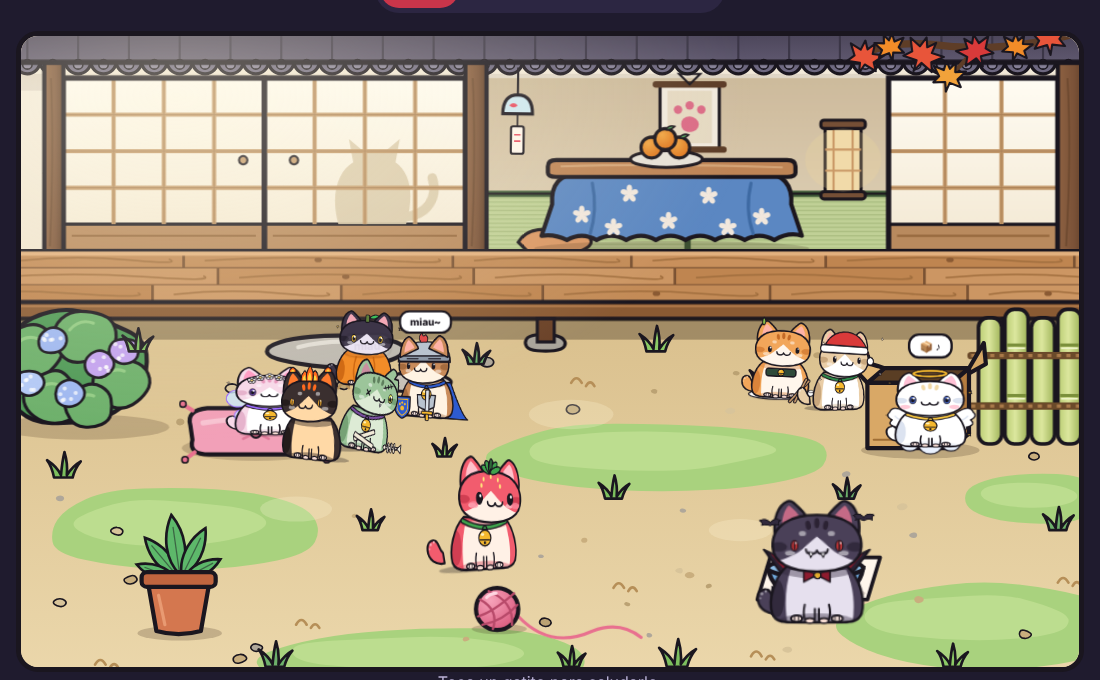
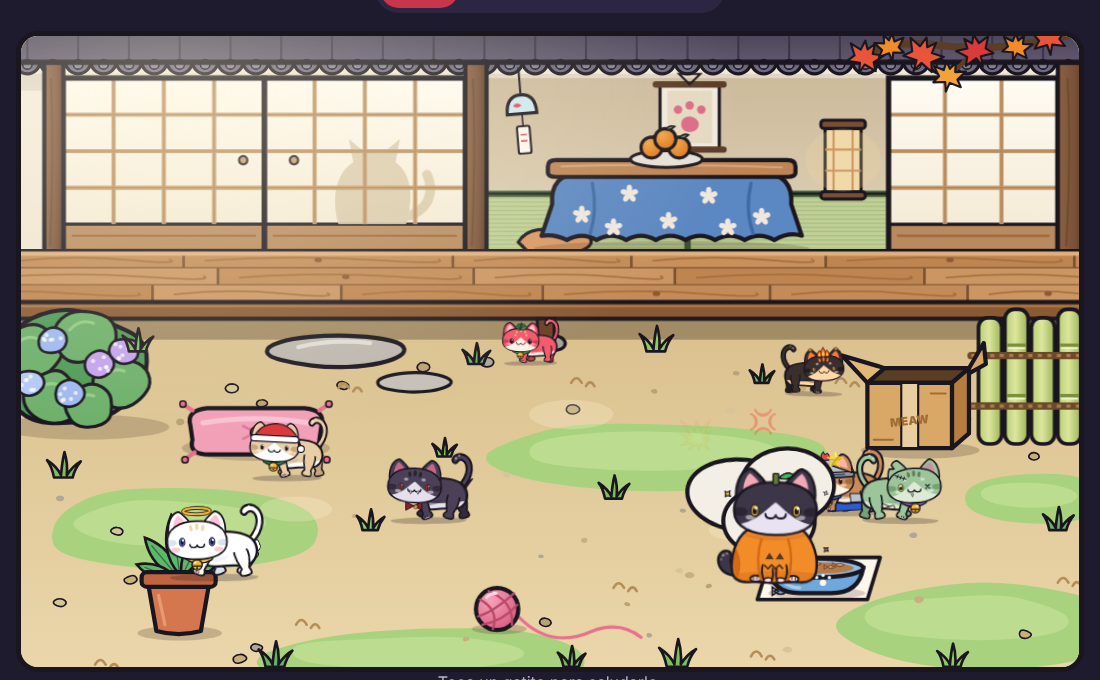
Add walking 4-legged pose for patio cats and organic sitting base
Base v3 from the art-director: v2 head on a side-view body with separate
legs and tail; CSS walk cycle (diagonal trot, body bob, head nod, tail
sway) whose speed follows the cat. Cats sit in the v2 pose when they stop.
Sitting body, tail, paws and shadows redrawn with organic curves.

Claude-Session: https://claude.ai/code/session_01DiuTr3FmZvpZGRHY7Z9UJZ

diff --git a/cats.js b/cats.js
@@ -13,8 +13,8 @@ const sh = (y, s) => y && s ? `<g transform="translate(0 ${y})">${s}</g>` : ''; 
 const EAR_L = 'M46 66 C44 40 52 14 70 6 Q76 3 82 8 C96 20 106 30 110 40 Z', EAR_L_IN = 'M60 52 C60 36 66 20 74 14 C84 22 92 30 96 38 Z';
 const HEAD = 'M42 94 C40 52 78 32 128 32 C178 32 216 52 214 94 C213 126 178 142 128 142 C78 142 43 126 42 94 Z';
 const MUZZLE = 'M40 124 C60 120 84 112 100 98 C112 88 120 80 128 74 C136 80 144 88 156 98 C172 112 196 120 216 124 L216 148 L40 148 Z';
-const BODY = 'M70 132 C42 156 32 200 40 226 C46 240 60 242 76 242 L180 242 C196 242 210 240 216 226 C224 200 214 156 186 132 Z';
-const TAIL = 'M52 228 C30 232 10 220 8 200 C6 184 18 176 28 180 C38 184 36 198 48 206 Z';
+const BODY = 'M70 132 C44 150 33 194 39 223 C42 237 57 244 80 242 C104 240 116 245 130 244 C150 243 164 239 182 242 C200 243 213 235 216 220 C221 192 213 156 186 131 C150 138 104 138 70 132 Z';
+const TAIL = 'M54 230 C34 236 12 226 7 206 C3 190 12 178 24 178 C34 179 38 188 34 196 C31 203 38 210 50 212 C56 216 58 224 54 230 Z';
 const EYES = [85, 171], EY = 92;
 
 function buildCat(c, uid = "") { // uid: unique suffix so the same cat can appear twice in one page (clipPath ids)
@@ -35,20 +35,20 @@ function buildCat(c, uid = "") { // uid: unique suffix so the same cat can appea
   })[kind] || `<ellipse cx="${x}" cy="${EY}" rx="6" ry="9.5" fill="${p.eye}"/><circle cx="${x + 2}" cy="${EY - 5}" r="2.4" fill="#fff"/>`;
   const A = k => sh((c.shift || {})[k], a[k]) || a[k] || '';
   return {
-    ground: `<ellipse cx="128" cy="243" rx="84" ry="9" fill="${O}" opacity=".3"/>` + A('ground'),
-    back: `<path d="${TAIL}" ${st(p.fur, 5)}/><g fill="${light}"><circle cx="16" cy="188" r="3"/><circle cx="24" cy="183" r="2.5"/><circle cx="13" cy="197" r="2"/></g>` + A('back'),
+    ground: `<path d="M48 240 C70 234 186 233 210 239 C214 246 180 250 128 250 C78 250 44 247 48 240 Z" fill="${O}" opacity=".3"/>` + A('ground'),
+    back: `<path d="${TAIL}" ${st(p.fur, 5)}/><g fill="${light}"><circle cx="17" cy="188" r="3"/><circle cx="25" cy="184" r="2.5"/><circle cx="13" cy="197" r="2"/></g>` + A('back'),
     body: `<defs><clipPath id="${id}-bc"><path d="${BODY}"/></clipPath></defs>
       <path d="${BODY}" fill="${bodyFill}"/>
       <g clip-path="url(#${id}-bc)">
         ${c.bodyFill ? '' : `<path d="M76 140 C66 172 64 210 70 244 L198 244 C204 210 200 172 186 140 Z" fill="${p.belly}"/>`}
-        <ellipse cx="50" cy="196" rx="14" ry="36" fill="${bodyShade}"/>
-        <g fill="${bodyShade}" opacity=".4"><ellipse cx="128" cy="140" rx="76" ry="17"/><ellipse cx="128" cy="252" rx="94" ry="27"/></g>
+        <path d="M44 170 C56 184 60 214 50 234 C40 222 38 190 44 170 Z" fill="${bodyShade}"/>
+        <g fill="${bodyShade}" opacity=".4"><path d="M54 136 C90 152 170 154 204 134 C196 160 70 162 54 136 Z"/><path d="M40 226 C90 218 170 216 218 224 L218 246 L40 246 Z"/></g>
       </g>
       <path d="${BODY}" fill="none" stroke="${O}" stroke-width="5" stroke-linejoin="round"/>
-      <g ${st('#F7E3DC')}><ellipse cx="88" cy="235" rx="11" ry="6"/><ellipse cx="168" cy="235" rx="11" ry="6"/></g>
-      <path d="M84 232v5M92 232v5M164 232v5M172 232v5" stroke="${O}" stroke-width="2" stroke-linecap="round"/>
-      <path d="M104 208 Q100 224 104 236M124 216V238M132 216V238M152 208 Q156 224 152 236" stroke="${O}" stroke-width="4" fill="none" stroke-linecap="round"/>
-      <g ${st('#F6DCD3', 3)}><ellipse cx="114" cy="239" rx="9" ry="5"/><ellipse cx="142" cy="239" rx="9" ry="5"/></g>` +
+      <g ${st('#F7E3DC')}><path d="M77 236 C77 229 86 227 94 229 C100 231 101 238 96 240 C89 242 79 242 77 236 Z"/><path d="M179 236 C179 229 170 227 162 229 C156 231 155 238 160 240 C167 242 177 242 179 236 Z"/></g>
+      <path d="M84 232 q1 3 0 5 M91 231 q1 3 0 5 M165 231 q-1 3 0 5 M172 232 q-1 3 0 5" stroke="${O}" stroke-width="2" fill="none" stroke-linecap="round"/>
+      <path d="M103 206 Q99 222 105 236 M124 214 Q126 226 123 238 M132 214 Q130 226 133 238 M153 206 Q157 222 151 236" stroke="${O}" stroke-width="4" fill="none" stroke-linecap="round"/>
+      <g ${st('#F6DCD3', 3)}><path d="M105 239 C105 234 112 232 118 233 C123 234 124 240 120 242 C115 244 106 243 105 239 Z"/><path d="M151 239 C151 234 144 232 138 233 C133 234 132 240 136 242 C141 244 150 243 151 239 Z"/></g>` +
       A('body') +
       (c.collar === false ? '' : `<path d="M68 140 Q128 166 188 140" stroke="${O}" stroke-width="12" fill="none" stroke-linecap="round"/><path d="M68 140 Q128 166 188 140" stroke="${p.accent}" stroke-width="6" fill="none" stroke-linecap="round"/>
         <circle cx="128" cy="157" r="6" fill="none" stroke="${O}" stroke-width="3"/>${bell(128, 176, 17)}`) +
@@ -360,4 +360,42 @@ const CATS = [
     } },
 ];
 
-if (typeof module !== 'undefined') module.exports = { CATS, buildCat };
+const LEG_F = 'M-10 -4 C-12 10 -10 24 -9 33 C-15 36 -17 44 -11 46 C-4 48 7 48 10 45 C12 41 10 36 8 33 C10 22 12 8 10 -4';
+const LEG_B = 'M-14 -6 C-16 10 -10 22 -8 32 C-14 36 -16 44 -10 46 C-3 48 8 48 10 45 C12 41 10 36 8 32 C12 22 18 8 14 -6';
+const TORSO = 'M112 158 C126 146 150 142 172 144 C196 146 214 152 222 168 C230 184 224 204 210 212 C196 218 178 214 162 216 C146 218 130 220 118 214 C104 206 100 176 112 158 Z';
+const WTAIL = 'M218 164 C238 140 240 108 222 92 C210 82 192 86 188 98 C185 107 196 112 200 104 C206 96 216 100 220 110 C226 126 218 146 204 162 Z';
+const TORSO_ITEMS = new Set(['gato-sushi', 'gato-zombi', 'gato-astronauta', 'gato-dragon', 'gato-bombero', 'gato-detective', 'gato-calabaza', 'gato-robot', 'gato-rayo', 'gato-caballero']);
+// Walking pose (side view, facing left): v2 head on top of an animated 4-legged body. Held items and ground props are hidden.
+function buildWalk(c, uid = '') {
+  const L = buildCat(c, uid), id = c.id + uid, p = c.colors, a = c.acc || {}, light = mix(p.fur, '#FFFFFF', .5);
+  const A = k => sh((c.shift || {})[k], a[k]) || a[k] || '';
+  const near = c.bodyFill || p.fur, far = c.bodyShade || p.shade;
+  const leg = (cls, x, y, d, fill, front) => `<g transform="translate(${x} ${y})"><g class="w-leg ${cls}"><path d="${d}Z" fill="${fill}"/><path d="${d}" fill="none" stroke="${O}" stroke-width="4" stroke-linecap="round" stroke-linejoin="round"/>` +
+    (front ? `<path d="M-7 41 l1 4 M-2 41 l1 5" stroke="${O}" stroke-width="2.5" stroke-linecap="round"/><path d="M-9 46 c3 -2 9 -2 12 0" stroke="#F6DCD3" stroke-width="2" fill="none"/>` : '') + '</g></g>';
+  const torsoItems = TORSO_ITEMS.has(c.id);
+  return `<defs><clipPath id="${id}-tc"><path d="${TORSO}"/></clipPath></defs>
+    <g transform="translate(128 240)"><g class="w-shadow"><path transform="translate(-128 -240)" d="M40 240 C70 232 190 230 228 238 C233 245 196 249 128 249 C70 249 35 247 40 240 Z" fill="${O}" opacity=".25"/></g></g>
+    ${leg('w-fb', 208, 189, LEG_B, far)}${leg('w-ff', 134, 189, LEG_F, far)}
+    <g class="w-body">
+      <g transform="translate(92 84) scale(.62)">${A('back')}</g>
+      <g transform="translate(210 162)"><g class="w-tail"><g transform="translate(-210 -162)"><path d="${WTAIL}" ${st(p.fur, 5)}/>
+        <g fill="${light}"><path d="M193 95 c3 -2 6 0 5 3 c-1 3 -6 2 -5 -3z"/><path d="M201 89 c2 -2 5 -1 4 2 c-1 2 -4 2 -4 -2z"/></g></g></g></g>
+      <path d="${TORSO}" fill="${near}"/>
+      <g clip-path="url(#${id}-tc)">
+        ${c.bodyFill ? '' : `<path d="M100 194 C126 204 168 206 232 196 L232 232 L100 232 Z" fill="${p.belly}"/>`}
+        <path d="M196 148 C222 156 234 184 216 212 C228 186 220 162 196 148 Z" fill="${far}"/>
+        <path d="M108 186 C124 196 146 200 164 194 C162 206 132 212 110 204 Z" fill="${far}" opacity=".4"/>
+        ${torsoItems ? `<g transform="translate(92 84) scale(.62)">${A('body')}${A('bodyTop')}</g>` : ''}
+      </g>
+      <path d="${TORSO}" fill="none" stroke="${O}" stroke-width="5" stroke-linejoin="round"/>
+    </g>
+    ${leg('w-nb', 192, 191, LEG_B, near)}${leg('w-nf', 118, 191, LEG_F, near, true)}
+    <g class="w-body">
+      ${c.collar === false ? '' : `<path d="M76 198 Q100 214 126 200" stroke="${O}" stroke-width="12" fill="none" stroke-linecap="round"/><path d="M76 198 Q100 214 126 200" stroke="${p.accent}" stroke-width="6" fill="none" stroke-linecap="round"/>`}
+      ${torsoItems ? '' : `<g transform="translate(4 98) scale(.74)">${A('body')}${A('bodyTop')}</g>`}
+      <g transform="translate(98 200)"><g class="w-head"><g transform="translate(-94 -102) scale(.74)">${L.head}${L.face}</g></g></g>
+      ${c.collar === false ? '' : bell(98, 214, 11)}
+    </g>`;
+}
+
+if (typeof module !== 'undefined') module.exports = { CATS, buildCat, buildWalk };

diff --git a/index.html b/index.html
@@ -135,8 +135,25 @@
   .pet .cat { width: 100%; margin: 0; }
   .pet .tilt { transition: transform .35s ease-out; }
   .pet-body { transform-origin: 50% 95%; }
-  .pet.walk .pet-body { animation: hop .32s ease-in-out infinite alternate; }
-  @keyframes hop { from { translate: 0 0; rotate: -3deg; } to { translate: 0 -7%; rotate: 3deg; } }
+  /* walking pose (Base v3): legs, body bob, head nod, tail sway */
+  .walkpose { position: absolute; left: 0; top: 0; width: 100%; height: auto; aspect-ratio: 1; overflow: visible; display: none; }
+  .pet.walk .walkpose { display: block; }
+  .pet.walk .pet-body { visibility: hidden; }
+  .pet.walk .w-leg { animation: w-leg var(--stride, .8s) ease-in-out infinite; }
+  .pet.walk .w-ff, .pet.walk .w-nb { animation-delay: calc(var(--stride, .8s) / -2); }
+  .pet.walk .w-nb, .pet.walk .w-fb { animation-name: w-leg-back; }
+  @keyframes w-leg { 0%, 100% { transform: rotate(22deg); } 50% { transform: rotate(-22deg); } 75% { transform: translateY(-5px) rotate(0deg); } }
+  @keyframes w-leg-back { 0%, 100% { transform: rotate(16deg); } 50% { transform: rotate(-18deg); } 75% { transform: translateY(-4px) rotate(0deg); } }
+  .pet.walk .w-body { animation: w-bob calc(var(--stride, .8s) / 2) ease-in-out infinite alternate; }
+  @keyframes w-bob { to { transform: translateY(-3px); } }
+  .pet.walk .w-head { animation: w-nod var(--stride, .8s) ease-in-out -.1s infinite; }
+  @keyframes w-nod { 0%, 100% { transform: rotate(-3deg); } 50% { transform: rotate(3deg) translateY(-2px); } }
+  .pet.walk .w-tail { animation: w-tail 1.6s ease-in-out infinite alternate; }
+  @keyframes w-tail { from { transform: rotate(-6deg); } to { transform: rotate(8deg); } }
+  .pet.walk .w-shadow { animation: w-shadow calc(var(--stride, .8s) / 2) ease-in-out infinite alternate; }
+  @keyframes w-shadow { to { transform: scaleX(.95); } }
+  .pet .pet-body { animation: settle .3s ease-out; }
+  @keyframes settle { from { scale: 1 .9; } }
   .pet.g-loaf .pet-body { scale: 1.08 .86; transition: scale .4s; }
   .pet.g-sleep .pet-body { scale: 1.1 .8; transition: scale .6s; }
   .pet.g-stretch .pet-body { animation: stretch 1.4s ease-in-out; }
@@ -389,8 +406,8 @@ function syncGarden() {
   const box = $('pets'), have = new Set(G.pets.map(p => p.c.id));
   for (const c of CATS) if (col[c.id] && !have.has(c.id)) {
     const el = document.createElement('div'); el.className = 'pet';
-    el.innerHTML = `<div class="pet-body">${catHTML(c)}</div>`;
-    const p = { c, el, x: rand(.1, .9), y: rand(Y0, Y1), dir: 1, cool: 3000 };
+    el.innerHTML = `<div class="pet-body">${catHTML(c)}</div><svg class="walkpose" viewBox="0 0 256 256" aria-hidden="true">${buildWalk(c, '-w' + uid++)}</svg>`;
+    const p = { c, el, wp: el.querySelector('.walkpose'), x: rand(.1, .9), y: rand(Y0, Y1), dir: 1, cool: 3000 };
     el.onclick = () => { if (p.state !== 'interact') { setState(p, 'gesture', 1200, 'g-jump'); say(p, '¡Miau! ❤'); } };
     box.append(el); G.pets.push(p); setState(p, 'idle', rand(300, 2500));
   }
@@ -445,7 +462,9 @@ function tick(now) {
         }
       }
       // pseudo-3D: walking cats turn toward where they go; resting cats face the player
-      p.el.querySelector('.tilt').style.setProperty('--ry', `${p.state === 'walk' || p.state === 'interact' ? p.dir * 32 : 0}deg`);
+      p.el.querySelector('.tilt').style.setProperty('--ry', `${p.state === 'interact' ? p.dir * 32 : 0}deg`);
+      p.wp.style.transform = p.dir > 0 ? 'scaleX(-1)' : ''; // walking art faces left
+      p.el.style.setProperty('--stride', `${Math.min(1.1, Math.max(.22, .056 / (p.speed || .07)))}s`);
       p.el.style.setProperty('--dir', p.dir);
       const s = .6 + .55 * (p.y - Y0) / (Y1 - Y0), size = W * .11;
       p.el.style.width = size + 'px';

diff --git a/docs/art/cat-designs.md b/docs/art/cat-designs.md
@@ -531,3 +531,97 @@ Idle: `float`; colas laterales `wing-l` (y espejo); fuegos `bob` + `twinkle`; ma
 | 30 | `gato-kitsune` | Gato Kitsune | Legendario |
 
 **Nomenclatura de assets**: `char_<id>_<variante>_<tamaño>.svg`, p. ej. `char_gato-dragon_idle_256.svg`.
+
+---
+
+## Base v3 — gato caminando (pose móvil)
+
+Pose a 4 patas, cuerpo de perfil ¾ **hacia la izquierda**, cabeza v2 de frente delante-izquierda, cola en S levantada atrás (ref. chibi siamés). Suelo (apoyo de las patitas) en **y = 238**. Para ir a la derecha: envolver todo en `transform="translate(256 0) scale(-1 1)"` (la cara v2 es simétrica, sirve igual).
+**Trazo orgánico**: nada de círculos/elipses/rects en partes del cuerpo; béziers asimétricas, patas que se estrechan, tripa que cuelga. Contorno `#1A161F` stroke 5 (patas 4), `round` en joins y caps.
+
+### 1. Cabeza (v2 tal cual)
+Las capas `head` + `face` de v2 (y con ellas `head`, `headTop`, `face`, `faceTop` de los 30 gatos) se dibujan sin cambios dentro de un grupo de pivote:
+```svg
+<g transform="translate(98 200)">            <!-- pivote = barbilla -->
+  <g class="w-head">                         <!-- CSS: cabeceo -->
+    <g transform="translate(-94 -102) scale(.74)"> …capas v2 head + face… </g>
+  </g>
+</g>
+```
+Equivale a `translate(4 98) scale(.74)`: la cabeza ocupa x35–162, y101 (puntas de oreja)–203 (barbilla); ojos en (67,166)/(131,166); boca y≈171–180.
+
+### 2. Cuerpo, patas, cola, sombra (pose base, sin animar)
+**Patrón de pivote** (todas las piezas que giran): `<g transform="translate(px py)"><g class="w-…">forma en coords locales, pivote = (0,0)</g></g>`. En SVG, la `transform` de CSS gira alrededor del origen local (0,0) = el pivote; no pongas `transform-origin` ni `transform-box`.
+
+| Pieza | Capa / orden | Forma (viewBox 256) |
+|---|---|---|
+| Sombra suelo | `ground` (1) | `M40,240 C70,232 190,230 228,238 C233,245 196,249 128,249 C70,249 35,247 40,240 Z` `#1A161F` op .25 (sin contorno) |
+| Cola | `back` (2), pivote `(210,162)` | `M218,164 C238,140 240,108 222,92 C210,82 192,86 188,98 C185,107 196,112 200,104 C206,96 216,100 220,110 C226,126 218,146 204,162 Z` en `<g transform="translate(210 162)"><g class="w-tail"><path transform="translate(-210 -162)" d="…"/></g></g>`; fill `fur`; manchas claras (óvalos irregulares) `M193,95 c3,-2 6,0 5,3 c-1,3 -6,2 -5,-3z` y `M201,89 c2,-2 5,-1 4,2 c-1,2 -4,2 -4,-2z` |
+| Pata trasera lejana | `body` (3), pivote `(208,189)` | forma **trasera** (abajo), fill `shade` |
+| Pata delantera lejana | `body` (4), pivote `(134,189)` | forma **delantera**, fill `shade` |
+| Torso | `body` (5) | `M112,158 C126,146 150,142 172,144 C196,146 214,152 222,168 C230,184 224,204 210,212 C196,218 178,214 162,216 C146,218 130,220 118,214 C104,206 100,176 112,158 Z` fill `fur` (= clip `tc`); tripa colgando entre x130–160 |
+| Tripa/babero | `body` (clip `tc`) | `M100,194 C126,204 168,206 232,196 L232,232 L100,232 Z` fill `belly` (frontera ondulada, no recta) |
+| Sombra lomo | `body` (clip `tc`) | `M196,148 C222,156 234,184 216,212 C228,186 220,162 196,148 Z` fill `shade` (anca derecha) |
+| Sombra bajo cabeza | `body` (clip `tc`) | `M108,186 C124,196 146,200 164,194 C162,206 132,212 110,204 Z` fill `shade` op .4 |
+| Contorno torso | `body` (6) | mismo `d` del torso, stroke 5, sin relleno |
+| Pata trasera cercana | `body` (7), pivote `(192,191)` | forma **trasera**, fill `fur` |
+| Pata delantera cercana | `body` (8), pivote `(118,191)` | forma **delantera**, fill `fur` |
+| Collar + cascabel | `body` (9) | banda `M76,198 Q100,214 126,200` (stroke 12 `#1A161F` + stroke 6 `accent`), casi tapada por la barbilla; cascabel `bell(98,214,11)` colgando bajo la barbilla |
+| Cabeza + cara | `head`/`face` (10) | grupo de §1 |
+
+**Formas de pata** (coords locales, pivote (0,0) en el hombro/cadera, apoyo en y≈47; la patita sobresale hacia delante = izquierda):
+- Delantera: `M-10,-4 C-12,10 -10,24 -9,33 C-15,36 -17,44 -11,46 C-4,48 7,48 10,45 C12,41 10,36 8,33 C10,22 12,8 10,-4`
+- Trasera (muslo más ancho): `M-14,-6 C-16,10 -10,22 -8,32 C-14,36 -16,44 -10,46 C-3,48 8,48 10,45 C12,41 10,36 8,32 C12,22 18,8 14,-6`
+- Relleno: el `d` con `Z` al final. **Contorno: el mismo `d` sin `Z`**: así el borde de arriba no se dibuja y la pata se funde con el torso sin raya.
+- Dedos (solo patas cercanas): `M-7,41 l1,4 M-2,41 l1,5` stroke 2.5. Almohadilla opcional: `M-9,46 c3,-2 9,-2 12,0` stroke 2 `#F6DCD3`.
+- Si el gato tiene `bodyFill`, se aplica al torso y a las patas cercanas; las lejanas usan `bodyShade`.
+
+### 3. Ciclo de caminar (CSS sobre grupos SVG)
+Trote diagonal: delantera cercana + trasera lejana en fase; delantera lejana + trasera cercana con desfase de media zancada. Zancada **0.8 s**. Ángulo positivo = patita hacia delante (izquierda).
+```css
+.walking .w-leg { animation: w-leg .8s ease-in-out infinite; }
+.walking .w-nf, .walking .w-fb { animation-delay: 0s; }
+.walking .w-ff, .walking .w-nb { animation-delay: -.4s; }
+.walking .w-nb, .walking .w-fb { animation-name: w-leg-back; }  /* traseras: menos amplitud */
+@keyframes w-leg      { 0%,100% { transform: rotate(22deg); } 50% { transform: rotate(-22deg); }
+                        75% { transform: translateY(-5px) rotate(0deg); } }      /* levanta al avanzar */
+@keyframes w-leg-back { 0%,100% { transform: rotate(16deg); } 50% { transform: rotate(-18deg); }
+                        75% { transform: translateY(-4px) rotate(0deg); } }
+.walking .w-body { animation: w-bob .4s ease-in-out infinite alternate; }        /* todo menos sombra y patas */
+@keyframes w-bob  { from { transform: translateY(0); } to { transform: translateY(-3px); } }
+.walking .w-head { animation: w-nod .8s ease-in-out infinite; animation-delay: -.1s; }  /* llega tarde */
+@keyframes w-nod  { 0%,100% { transform: rotate(-3deg) translateY(0); } 50% { transform: rotate(3deg) translateY(-2px); } }
+.walking .w-tail { animation: w-tail 1.6s ease-in-out infinite alternate; }
+@keyframes w-tail { from { transform: rotate(-6deg); } to { transform: rotate(8deg); } }
+.walking .w-shadow { animation: w-shadow .4s ease-in-out infinite alternate; }
+@keyframes w-shadow { from { transform: scaleX(1); } to { transform: scaleX(.95); } }  /* pivote (128,240) */
+@media (prefers-reduced-motion: reduce) { .walking * { animation: none !important; } } /* solo se desliza */
+```
+`.w-body` envuelve cola, torso, collar y cabeza. Las patas van fuera, así que el cuerpo sube y baja mientras las patitas siguen pisando el suelo. Las patas llevan `class="w-leg w-nf"` (cercana delantera), `w-ff`, `w-nb`, `w-fb`. La sombra usa el patrón de pivote en (128,240).
+Velocidad en el patio: ≈ 60 px/s a escala 1 (una zancada ≈ 48 px); si el gato va más rápido, baja `animation-duration` en proporción.
+
+### 4. Cuándo usar cada pose y qué accesorios se ven
+- **Patio**: el gato camina (v3) mientras se desplaza. Al llegar se **sienta** (v2) con un fundido de 150 ms entre las dos poses más un rebote `scaleY .94→1`. Tarjetas, gacha y colección: siempre sentado (v2).
+- `head`, `headTop`, `face`, `faceTop`, `earR`, `earsOver`: **todo igual**, dentro del grupo de cabeza (§1).
+- `body` / `bodyTop` **de cuello** (lo que en v2 queda por encima de y≈175: pañuelos, lazos, perlas, torque, shimenawa, pinchos del collar) → con la **transformación de la cabeza**, sin cabeceo: `translate(4 98) scale(.74)`. Quedan bajo la barbilla. Si el gato no tiene collar, se oculta el cascabel v3.
+- `body` / `bodyTop` **de tronco** (bandas del bombero, panel del robot, cara de calabaza, rayo, vendas, solapas) → sobre el torso con `translate(92 84) scale(.62)` y `clip-path="url(#tc)"`. El centro del pecho v2 (128,160) cae así en (171,183).
+- `back` (alas, capas, mochila, colas de kitsune): mismo `translate(92 84) scale(.62)`, por detrás del torso, anclado a la cruz en ≈(170,150). Mantienen sus clases (`wing-l`, `flutter`…). Sale un ala por lado, en perspectiva, sin cambios.
+- **Puntas de cola v2** (aleta de sirena, pompón de conejo, punta del dragón, plumas del fénix): pasan al grupo `.w-tail` con `translate(180 -92)`, de (14,190) a la punta v3 ≈(194,98).
+- `front` **sostenido** (palillos, shuriken, mando, espina, escudo y espada, varitas, cucharón, lupa, paleta y pincel, guitarra, bambú, engranaje): **se ocultan** al caminar. Ocultar todo lo que lleve las clases `mash`/`shield`, o mejor una marca `held: true` por accesorio.
+- `front` **ambiental** (`twinkle`, `bubble`, `puff`, `flutter` de murciélagos, chispas legendarias, fuegos fatuos): se ven, sin transformar.
+- `ground` (cama de arroz, regalo, cesta, charco): **se oculta** al caminar; solo existe mientras el gato está sentado.
+
+### 5. Base v2 sentada menos geométrica (reemplazos exactos en `cats.js`)
+| Parte | Reemplazo |
+|---|---|
+| `BODY` (asimétrico, tripa con leve hueco entre patas) | `M70 132 C44 150 33 194 39 223 C42 237 57 244 80 242 C104 240 116 245 130 244 C150 243 164 239 182 242 C200 243 213 235 216 220 C221 192 213 156 186 131 C150 138 104 138 70 132 Z` |
+| `TAIL` (base gruesa, punta enroscada hacia arriba) | `M54 230 C34 236 12 226 7 206 C3 190 12 178 24 178 C34 179 38 188 34 196 C31 203 38 210 50 212 C56 216 58 224 54 230 Z` (manchas: mantener, desplazadas a (17,188),(25,184)) |
+| Sombra lateral (elipse 50,196) | `M44 170 C56 184 60 214 50 234 C40 222 38 190 44 170 Z` |
+| Sombras bajo cabeza / base (elipses) | `M54 136 C90 152 170 154 204 134 C196 160 70 162 54 136 Z` y `M40 226 C90 218 170 216 218 224 L218 246 L40 246 Z` (op .4, clip `bc`) |
+| Patitas traseras (elipses) | `M77 236 C77 229 86 227 94 229 C100 231 101 238 96 240 C89 242 79 242 77 236 Z` y `M179 236 C179 229 170 227 162 229 C156 231 155 238 160 240 C167 242 177 242 179 236 Z` |
+| Patitas delanteras (elipses) | `M105 239 C105 234 112 232 118 233 C123 234 124 240 120 242 C115 244 106 243 105 239 Z` y `M151 239 C151 234 144 232 138 233 C133 234 132 240 136 242 C141 244 150 243 151 239 Z` |
+| Patas (líneas) | `M103 206 Q99 222 105 236 M124 214 Q126 226 123 238 M132 214 Q130 226 133 238 M153 206 Q157 222 151 236` |
+| Sombra suelo (elipse) | `M48 240 C70 234 186 233 210 239 C214 246 180 250 128 250 C78 250 44 247 48 240 Z` |
+| Dedos traseros | `M84 232 q1 3 0 5 M91 231 q1 3 0 5 M165 231 q-1 3 0 5 M172 232 q-1 3 0 5` (curvos, no rectos) |
+
+**Opcional, trazo "a mano"**: `<filter id="wob"><feTurbulence type="fractalNoise" baseFrequency=".04" numOctaves="2" seed="3"/><feDisplacementMap in="SourceGraphic" scale="2"/></filter>`, aplicado **solo** a los contornos de cuerpo, cola y patas (nunca a ojos ni boca). Coste: con 30 gatos en el patio, aplicarlo solo en la pose sentada (estática) o prerenderizar.
